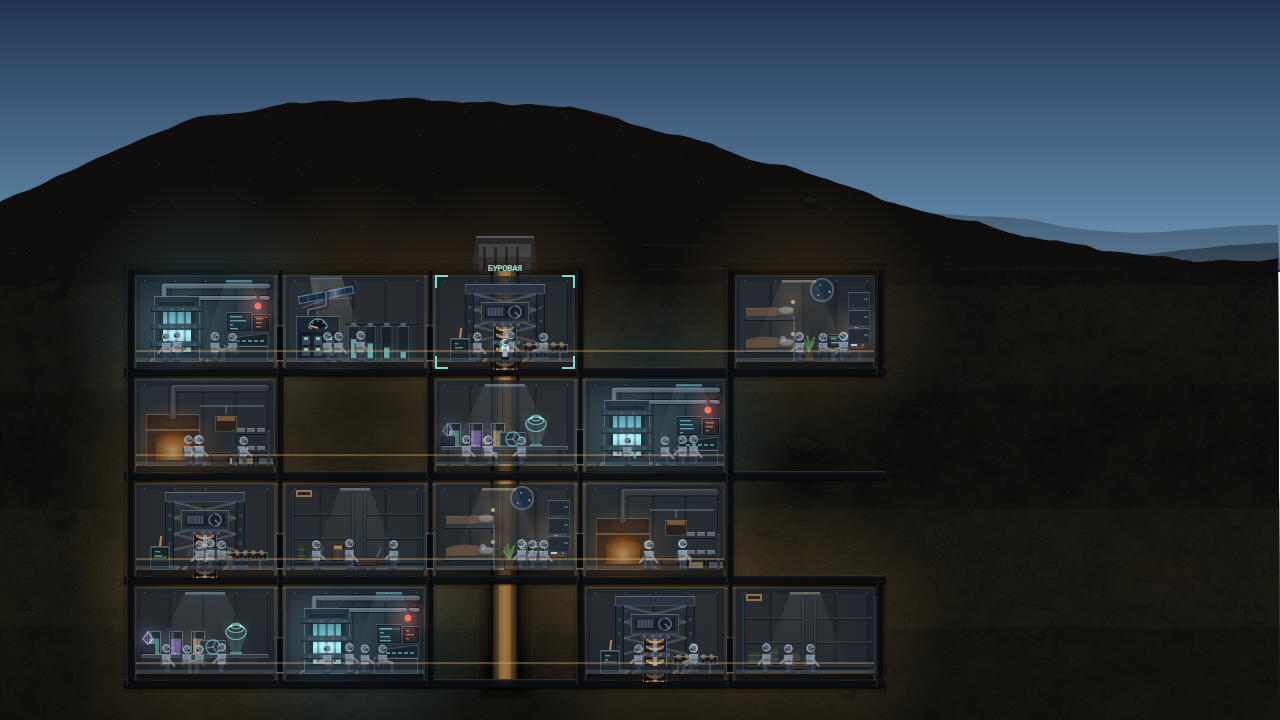
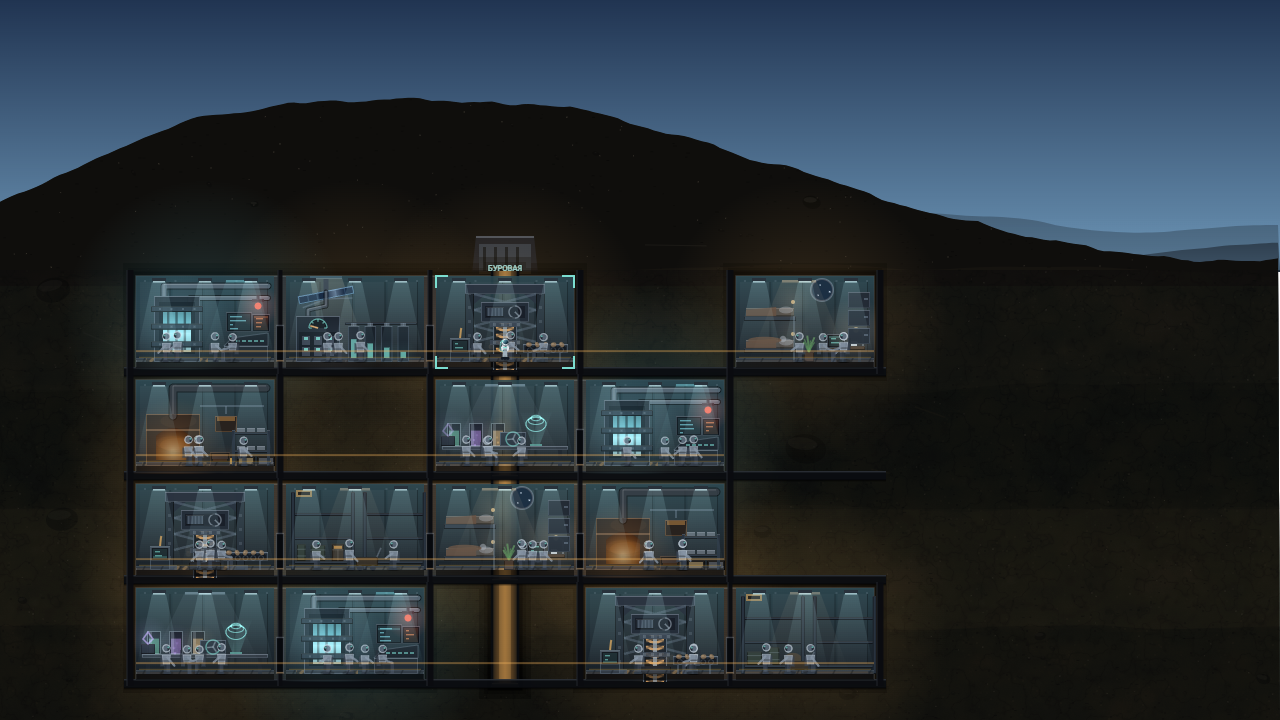
База: свет в помещении, настил, лампы и тени — узнаётся образец
13. Стена была ровным сине-серым полем в полсилы: помещение выглядело
    нежилым, разрез читался чертежом. Теперь она освещена — у потолка
    светлее, к полу темнее, тон уходит в холодную бирюзу от ламп. Свет в
    комнате есть, значит комната работает.
14. Пол был полосой в четыре пикселя, и помещение стояло на черте.
    Настил выложен плитой со швами, у стены жёлтая краевая разметка —
    ею метят проходы везде, где ходят люди.
15. Свет был разлит ниоткуда. Две-три лампы под потолком с конусом до
    пола объясняют освещение и делят комнату на зоны — этим и читается
    длина помещения.
16. Тень под ногами: без неё человек висел над настилом.

Тесты зелёные (2966).

diff --git a/docs/base.html b/docs/base.html
@@ -18185,7 +18185,17 @@ function bBox(x,y,w,h,fill,lit,edge){
 function bWall(x0,y0,w,h,lit,seed){
   const R=rng(seed);
   ctx.save();ctx.beginPath();ctx.rect(x0,y0,w,h);ctx.clip();
-  ctx.fillStyle="rgba(26,33,42,"+(.55+lit*.25).toFixed(2)+")";ctx.fillRect(x0,y0,w,h);
+  /* ── стена помещения ──
+     Была ровным сине-серым полем в полсилы: помещение выглядело нежилым, и
+     разрез читался чертежом. На образце стена ОСВЕЩЕНА — у потолка светлее,
+     к полу темнее, и весь тон уходит в холодную бирюзу от ламп. Градиент
+     стоит ровно ничего и делает половину впечатления: свет в комнате есть,
+     значит комната работает. */
+  const wg=ctx.createLinearGradient(0,y0,0,y0+h);
+  wg.addColorStop(0,"rgba(44,74,84,"+(.62+lit*.30).toFixed(2)+")");
+  wg.addColorStop(.55,"rgba(30,46,56,"+(.60+lit*.28).toFixed(2)+")");
+  wg.addColorStop(1,"rgba(20,28,36,"+(.66+lit*.24).toFixed(2)+")");
+  ctx.fillStyle=wg;ctx.fillRect(x0,y0,w,h);
   for(let i=0;i<4;i++){
     const px=x0+4+i*(w-8)/4;
     ctx.fillStyle="rgba(255,255,255,"+(.014+R()*.02).toFixed(3)+")";
@@ -18329,6 +18339,27 @@ function drawModule(k,x,y,lit,c,r,B){
 
      Честность механики важнее картинки: людей ровно столько, сколько на базе
      персонала. Пустая база остаётся пустой — иначе разрез врал бы о штате. */
+  /* ── лампы под потолком ──
+     Свет в отсеке был разлит ниоткуда: помещение светилось, но источника не
+     имело, и потолок оставался пустой полосой. Две-три лампы на потолке с
+     конусом до пола объясняют освещение и заодно делят комнату на зоны —
+     ровно то, чем у образца читается длина помещения. */
+  {
+    const ln=w>120?3:2;
+    for(let i=0;i<ln;i++){
+      const px=x0+w*(i+.5)/ln;
+      ctx.fillStyle="rgba(40,48,58,.95)";ctx.fillRect(px-7,y0+2,14,3);
+      ctx.fillStyle="rgba(206,240,246,"+(.30+lit*.5).toFixed(2)+")";
+      ctx.fillRect(px-6,y0+5,12,1.6);
+      const cg=ctx.createLinearGradient(0,y0+6,0,fy);
+      cg.addColorStop(0,"rgba(180,232,240,"+(.09+lit*.11).toFixed(3)+")");
+      cg.addColorStop(1,"rgba(180,232,240,0)");
+      ctx.fillStyle=cg;
+      ctx.beginPath();
+      ctx.moveTo(px-7,y0+6);ctx.lineTo(px+7,y0+6);
+      ctx.lineTo(px+24,fy);ctx.lineTo(px-24,fy);ctx.closePath();ctx.fill();
+    }
+  }
   const staff=(typeof baseStaff==="function"&&B)?baseStaff(B).length:0;
   if(staff>0){
     const hh=hashi(c+3,r+5,(B&&B.idx|0)+11);
@@ -18336,12 +18367,27 @@ function drawModule(k,x,y,lit,c,r,B){
     for(let i=0;i<room;i++){
       const px=x0+w*(.22+((hh>>>(i*3+2))&7)/7*.56);
       const sit=((hh>>>(i+9))&3)===0;
+      /* тень под ногами: без неё человек висит в воздухе над настилом */
+      ctx.fillStyle="rgba(0,0,0,.34)";
+      ctx.beginPath();ctx.ellipse(px,fy-1,7,2,0,0,TAU);ctx.fill();
       bWorker(px,fy,lit,sit,G.t*(.028+i*.006)+seed+i*2.1,((hh>>>(i+13))&1)?1:-1);
     }
   }
   /* пол поверх всего: плита со светом сверху и тень, которой мебель касается */
   ctx.fillStyle="rgba(120,132,146,"+(.10+lit*.16).toFixed(2)+")";ctx.fillRect(x0,fy-4,w,4);
   ctx.fillStyle="rgba(150,166,182,"+(.05+lit*.08).toFixed(3)+")";ctx.fillRect(x0,fy-4,w,1);
+  /* ── настил ──
+     Пол был полосой в четыре пикселя: помещение стояло на черте. У образца
+     настил выложен плитой, и по нему читается размер комнаты. Плиты со швом
+     и жёлтая краевая разметка — ею метят проходы везде, где ходят люди. */
+  ctx.save();ctx.beginPath();ctx.rect(x0,fy-4,w,4);ctx.clip();
+  ctx.strokeStyle="rgba(10,14,18,.5)";ctx.lineWidth=1;
+  for(let px=x0+9;px<x0+w;px+=18){
+    ctx.beginPath();ctx.moveTo(px,fy-4);ctx.lineTo(px-2,fy);ctx.stroke();
+  }
+  ctx.restore();
+  ctx.fillStyle="rgba(214,168,64,"+(.14+lit*.18).toFixed(2)+")";
+  ctx.fillRect(x0+3,fy-5.2,w-6,1.1);
   ctx.fillStyle="rgba(0,0,0,.5)";ctx.fillRect(x0,fy,w,6);
   ctx.restore();
 }

diff --git a/drift.html b/drift.html
@@ -18185,7 +18185,17 @@ function bBox(x,y,w,h,fill,lit,edge){
 function bWall(x0,y0,w,h,lit,seed){
   const R=rng(seed);
   ctx.save();ctx.beginPath();ctx.rect(x0,y0,w,h);ctx.clip();
-  ctx.fillStyle="rgba(26,33,42,"+(.55+lit*.25).toFixed(2)+")";ctx.fillRect(x0,y0,w,h);
+  /* ── стена помещения ──
+     Была ровным сине-серым полем в полсилы: помещение выглядело нежилым, и
+     разрез читался чертежом. На образце стена ОСВЕЩЕНА — у потолка светлее,
+     к полу темнее, и весь тон уходит в холодную бирюзу от ламп. Градиент
+     стоит ровно ничего и делает половину впечатления: свет в комнате есть,
+     значит комната работает. */
+  const wg=ctx.createLinearGradient(0,y0,0,y0+h);
+  wg.addColorStop(0,"rgba(44,74,84,"+(.62+lit*.30).toFixed(2)+")");
+  wg.addColorStop(.55,"rgba(30,46,56,"+(.60+lit*.28).toFixed(2)+")");
+  wg.addColorStop(1,"rgba(20,28,36,"+(.66+lit*.24).toFixed(2)+")");
+  ctx.fillStyle=wg;ctx.fillRect(x0,y0,w,h);
   for(let i=0;i<4;i++){
     const px=x0+4+i*(w-8)/4;
     ctx.fillStyle="rgba(255,255,255,"+(.014+R()*.02).toFixed(3)+")";
@@ -18329,6 +18339,27 @@ function drawModule(k,x,y,lit,c,r,B){
 
      Честность механики важнее картинки: людей ровно столько, сколько на базе
      персонала. Пустая база остаётся пустой — иначе разрез врал бы о штате. */
+  /* ── лампы под потолком ──
+     Свет в отсеке был разлит ниоткуда: помещение светилось, но источника не
+     имело, и потолок оставался пустой полосой. Две-три лампы на потолке с
+     конусом до пола объясняют освещение и заодно делят комнату на зоны —
+     ровно то, чем у образца читается длина помещения. */
+  {
+    const ln=w>120?3:2;
+    for(let i=0;i<ln;i++){
+      const px=x0+w*(i+.5)/ln;
+      ctx.fillStyle="rgba(40,48,58,.95)";ctx.fillRect(px-7,y0+2,14,3);
+      ctx.fillStyle="rgba(206,240,246,"+(.30+lit*.5).toFixed(2)+")";
+      ctx.fillRect(px-6,y0+5,12,1.6);
+      const cg=ctx.createLinearGradient(0,y0+6,0,fy);
+      cg.addColorStop(0,"rgba(180,232,240,"+(.09+lit*.11).toFixed(3)+")");
+      cg.addColorStop(1,"rgba(180,232,240,0)");
+      ctx.fillStyle=cg;
+      ctx.beginPath();
+      ctx.moveTo(px-7,y0+6);ctx.lineTo(px+7,y0+6);
+      ctx.lineTo(px+24,fy);ctx.lineTo(px-24,fy);ctx.closePath();ctx.fill();
+    }
+  }
   const staff=(typeof baseStaff==="function"&&B)?baseStaff(B).length:0;
   if(staff>0){
     const hh=hashi(c+3,r+5,(B&&B.idx|0)+11);
@@ -18336,12 +18367,27 @@ function drawModule(k,x,y,lit,c,r,B){
     for(let i=0;i<room;i++){
       const px=x0+w*(.22+((hh>>>(i*3+2))&7)/7*.56);
       const sit=((hh>>>(i+9))&3)===0;
+      /* тень под ногами: без неё человек висит в воздухе над настилом */
+      ctx.fillStyle="rgba(0,0,0,.34)";
+      ctx.beginPath();ctx.ellipse(px,fy-1,7,2,0,0,TAU);ctx.fill();
       bWorker(px,fy,lit,sit,G.t*(.028+i*.006)+seed+i*2.1,((hh>>>(i+13))&1)?1:-1);
     }
   }
   /* пол поверх всего: плита со светом сверху и тень, которой мебель касается */
   ctx.fillStyle="rgba(120,132,146,"+(.10+lit*.16).toFixed(2)+")";ctx.fillRect(x0,fy-4,w,4);
   ctx.fillStyle="rgba(150,166,182,"+(.05+lit*.08).toFixed(3)+")";ctx.fillRect(x0,fy-4,w,1);
+  /* ── настил ──
+     Пол был полосой в четыре пикселя: помещение стояло на черте. У образца
+     настил выложен плитой, и по нему читается размер комнаты. Плиты со швом
+     и жёлтая краевая разметка — ею метят проходы везде, где ходят люди. */
+  ctx.save();ctx.beginPath();ctx.rect(x0,fy-4,w,4);ctx.clip();
+  ctx.strokeStyle="rgba(10,14,18,.5)";ctx.lineWidth=1;
+  for(let px=x0+9;px<x0+w;px+=18){
+    ctx.beginPath();ctx.moveTo(px,fy-4);ctx.lineTo(px-2,fy);ctx.stroke();
+  }
+  ctx.restore();
+  ctx.fillStyle="rgba(214,168,64,"+(.14+lit*.18).toFixed(2)+")";
+  ctx.fillRect(x0+3,fy-5.2,w-6,1.1);
   ctx.fillStyle="rgba(0,0,0,.5)";ctx.fillRect(x0,fy,w,6);
   ctx.restore();
 }

diff --git a/src/21aa-base-rooms.js b/src/21aa-base-rooms.js
@@ -31,7 +31,17 @@ function bBox(x,y,w,h,fill,lit,edge){
 function bWall(x0,y0,w,h,lit,seed){
   const R=rng(seed);
   ctx.save();ctx.beginPath();ctx.rect(x0,y0,w,h);ctx.clip();
-  ctx.fillStyle="rgba(26,33,42,"+(.55+lit*.25).toFixed(2)+")";ctx.fillRect(x0,y0,w,h);
+  /* ── стена помещения ──
+     Была ровным сине-серым полем в полсилы: помещение выглядело нежилым, и
+     разрез читался чертежом. На образце стена ОСВЕЩЕНА — у потолка светлее,
+     к полу темнее, и весь тон уходит в холодную бирюзу от ламп. Градиент
+     стоит ровно ничего и делает половину впечатления: свет в комнате есть,
+     значит комната работает. */
+  const wg=ctx.createLinearGradient(0,y0,0,y0+h);
+  wg.addColorStop(0,"rgba(44,74,84,"+(.62+lit*.30).toFixed(2)+")");
+  wg.addColorStop(.55,"rgba(30,46,56,"+(.60+lit*.28).toFixed(2)+")");
+  wg.addColorStop(1,"rgba(20,28,36,"+(.66+lit*.24).toFixed(2)+")");
+  ctx.fillStyle=wg;ctx.fillRect(x0,y0,w,h);
   for(let i=0;i<4;i++){
     const px=x0+4+i*(w-8)/4;
     ctx.fillStyle="rgba(255,255,255,"+(.014+R()*.02).toFixed(3)+")";
@@ -175,6 +185,27 @@ function drawModule(k,x,y,lit,c,r,B){
 
      Честность механики важнее картинки: людей ровно столько, сколько на базе
      персонала. Пустая база остаётся пустой — иначе разрез врал бы о штате. */
+  /* ── лампы под потолком ──
+     Свет в отсеке был разлит ниоткуда: помещение светилось, но источника не
+     имело, и потолок оставался пустой полосой. Две-три лампы на потолке с
+     конусом до пола объясняют освещение и заодно делят комнату на зоны —
+     ровно то, чем у образца читается длина помещения. */
+  {
+    const ln=w>120?3:2;
+    for(let i=0;i<ln;i++){
+      const px=x0+w*(i+.5)/ln;
+      ctx.fillStyle="rgba(40,48,58,.95)";ctx.fillRect(px-7,y0+2,14,3);
+      ctx.fillStyle="rgba(206,240,246,"+(.30+lit*.5).toFixed(2)+")";
+      ctx.fillRect(px-6,y0+5,12,1.6);
+      const cg=ctx.createLinearGradient(0,y0+6,0,fy);
+      cg.addColorStop(0,"rgba(180,232,240,"+(.09+lit*.11).toFixed(3)+")");
+      cg.addColorStop(1,"rgba(180,232,240,0)");
+      ctx.fillStyle=cg;
+      ctx.beginPath();
+      ctx.moveTo(px-7,y0+6);ctx.lineTo(px+7,y0+6);
+      ctx.lineTo(px+24,fy);ctx.lineTo(px-24,fy);ctx.closePath();ctx.fill();
+    }
+  }
   const staff=(typeof baseStaff==="function"&&B)?baseStaff(B).length:0;
   if(staff>0){
     const hh=hashi(c+3,r+5,(B&&B.idx|0)+11);
@@ -182,12 +213,27 @@ function drawModule(k,x,y,lit,c,r,B){
     for(let i=0;i<room;i++){
       const px=x0+w*(.22+((hh>>>(i*3+2))&7)/7*.56);
       const sit=((hh>>>(i+9))&3)===0;
+      /* тень под ногами: без неё человек висит в воздухе над настилом */
+      ctx.fillStyle="rgba(0,0,0,.34)";
+      ctx.beginPath();ctx.ellipse(px,fy-1,7,2,0,0,TAU);ctx.fill();
       bWorker(px,fy,lit,sit,G.t*(.028+i*.006)+seed+i*2.1,((hh>>>(i+13))&1)?1:-1);
     }
   }
   /* пол поверх всего: плита со светом сверху и тень, которой мебель касается */
   ctx.fillStyle="rgba(120,132,146,"+(.10+lit*.16).toFixed(2)+")";ctx.fillRect(x0,fy-4,w,4);
   ctx.fillStyle="rgba(150,166,182,"+(.05+lit*.08).toFixed(3)+")";ctx.fillRect(x0,fy-4,w,1);
+  /* ── настил ──
+     Пол был полосой в четыре пикселя: помещение стояло на черте. У образца
+     настил выложен плитой, и по нему читается размер комнаты. Плиты со швом
+     и жёлтая краевая разметка — ею метят проходы везде, где ходят люди. */
+  ctx.save();ctx.beginPath();ctx.rect(x0,fy-4,w,4);ctx.clip();
+  ctx.strokeStyle="rgba(10,14,18,.5)";ctx.lineWidth=1;
+  for(let px=x0+9;px<x0+w;px+=18){
+    ctx.beginPath();ctx.moveTo(px,fy-4);ctx.lineTo(px-2,fy);ctx.stroke();
+  }
+  ctx.restore();
+  ctx.fillStyle="rgba(214,168,64,"+(.14+lit*.18).toFixed(2)+")";
+  ctx.fillRect(x0+3,fy-5.2,w-6,1.1);
   ctx.fillStyle="rgba(0,0,0,.5)";ctx.fillRect(x0,fy,w,6);
   ctx.restore();
 }

diff --git a/docs/INDEX.md b/docs/INDEX.md
@@ -110,7 +110,7 @@ bargeSysAt                   src/12l-barge.js:25
 BARTER                       src/04-mods.js:60
 BASE_COLS                    src/21a-mode-base.js:6
 BASE_ROLES                   src/12a-crew.js:118
-BASE_ROOM                    src/21aa-base-rooms.js:196
+BASE_ROOM                    src/21aa-base-rooms.js:242
 baseAt                       src/21a-mode-base.js:35
 baseCell                     src/21a-mode-base.js:78
 baseCollect                  src/21a-mode-base.js:263
@@ -134,7 +134,7 @@ baseStaff                    src/12a-crew.js:128
 baseStorm                    src/21a-mode-base.js:228
 baseTick                     src/21a-mode-base.js:136
 bBox                         src/21aa-base-rooms.js:23
-bCrate                       src/21aa-base-rooms.js:72
+bCrate                       src/21aa-base-rooms.js:82
 BEACON_COOL                  src/23-mode-dig.js:70
 beaconCool                   src/23-mode-dig.js:71
 beaconTick                   src/23-mode-dig.js:86
@@ -151,20 +151,20 @@ beltBasis                    src/24-mode-belt.js:151
 beltFwd                      src/24-mode-belt.js:146
 beltIcy                      src/24-mode-belt.js:87
 BG                           src/16-flight.js:3
-bGlow                        src/21aa-base-rooms.js:100
-bHazard                      src/21aa-base-rooms.js:91
-bLamp                        src/21aa-base-rooms.js:81
+bGlow                        src/21aa-base-rooms.js:110
+bHazard                      src/21aa-base-rooms.js:101
+bLamp                        src/21aa-base-rooms.js:91
 BLUEPRINTS                   src/12c-mgr-core.js:654
 BM_WARM                      src/21aa-base-rooms.js:20
 bodyInSystem                 src/16-flight.js:50
 BP_KEYS                      src/12c-mgr-core.js:661
-bPipe                        src/21aa-base-rooms.js:46
+bPipe                        src/21aa-base-rooms.js:56
 bpMul                        src/12c-mgr-core.js:665
 bpRecheck                    src/12c-mgr-core.js:732
 bpState                      src/12c-mgr-core.js:662
 brownBuf                     src/10-music.js:119
 brownNoise                   src/10-music.js:120
-bScreen                      src/21aa-base-rooms.js:58
+bScreen                      src/21aa-base-rooms.js:68
 BUILD                        src/21a-mode-base.js:19
 BUILD_KEYS                   src/21a-mode-base.js:33
 buildAi                      src/12f-mgr-ai.js:29
@@ -172,7 +172,7 @@ builtHere                    src/21c-built.js:18
 builtKey                     src/21c-built.js:16
 builtSpot                    src/21c-built.js:34
 bWall                        src/21aa-base-rooms.js:31
-bWorker                      src/21aa-base-rooms.js:113
+bWorker                      src/21aa-base-rooms.js:123
 camOffset                    src/19c-light.js:76
 camStep                      src/19c-light.js:62
 canPay                       src/21a-mode-base.js:43
@@ -345,7 +345,7 @@ drawBelt                     src/24-mode-belt.js:318
 drawBeltPOISprite            src/24b-belt-poi.js:50
 drawBeltRing                 src/17-mode-system.js:481
 drawBeltRocks                src/17-mode-system.js:439
-drawBuildMenu                src/21aa-base-rooms.js:771
+drawBuildMenu                src/21aa-base-rooms.js:817
 drawBuilt                    src/21c-built.js:57
 drawCantinaRoom              src/27d-ui-cantina.js:32
 drawCave                     src/22-mode-cave.js:131
@@ -385,7 +385,7 @@ drawLoreMarks                src/12q-lore.js:198
 drawLuxeDeck                 src/03c-hull-luxe.js:109
 drawLuxeSkin                 src/03c-hull-luxe.js:27
 drawMap                      src/18-mode-map.js:51
-drawModule                   src/21aa-base-rooms.js:159
+drawModule                   src/21aa-base-rooms.js:169
 drawMonolith                 src/20a-poi.js:414
 drawNebula                   src/16-flight.js:39
 drawNodeIcon                 src/05a-nodes.js:264
@@ -1507,7 +1507,7 @@ ZAP_COOL                     src/23-mode-dig.js:212
   · флора:88
   · фауна:456
 
-## src/21aa-base-rooms.js · 50 КБ
+## src/21aa-base-rooms.js · 53 КБ
   · база: внутренности отсеков:1
   · внутренности отсеков:5
 
